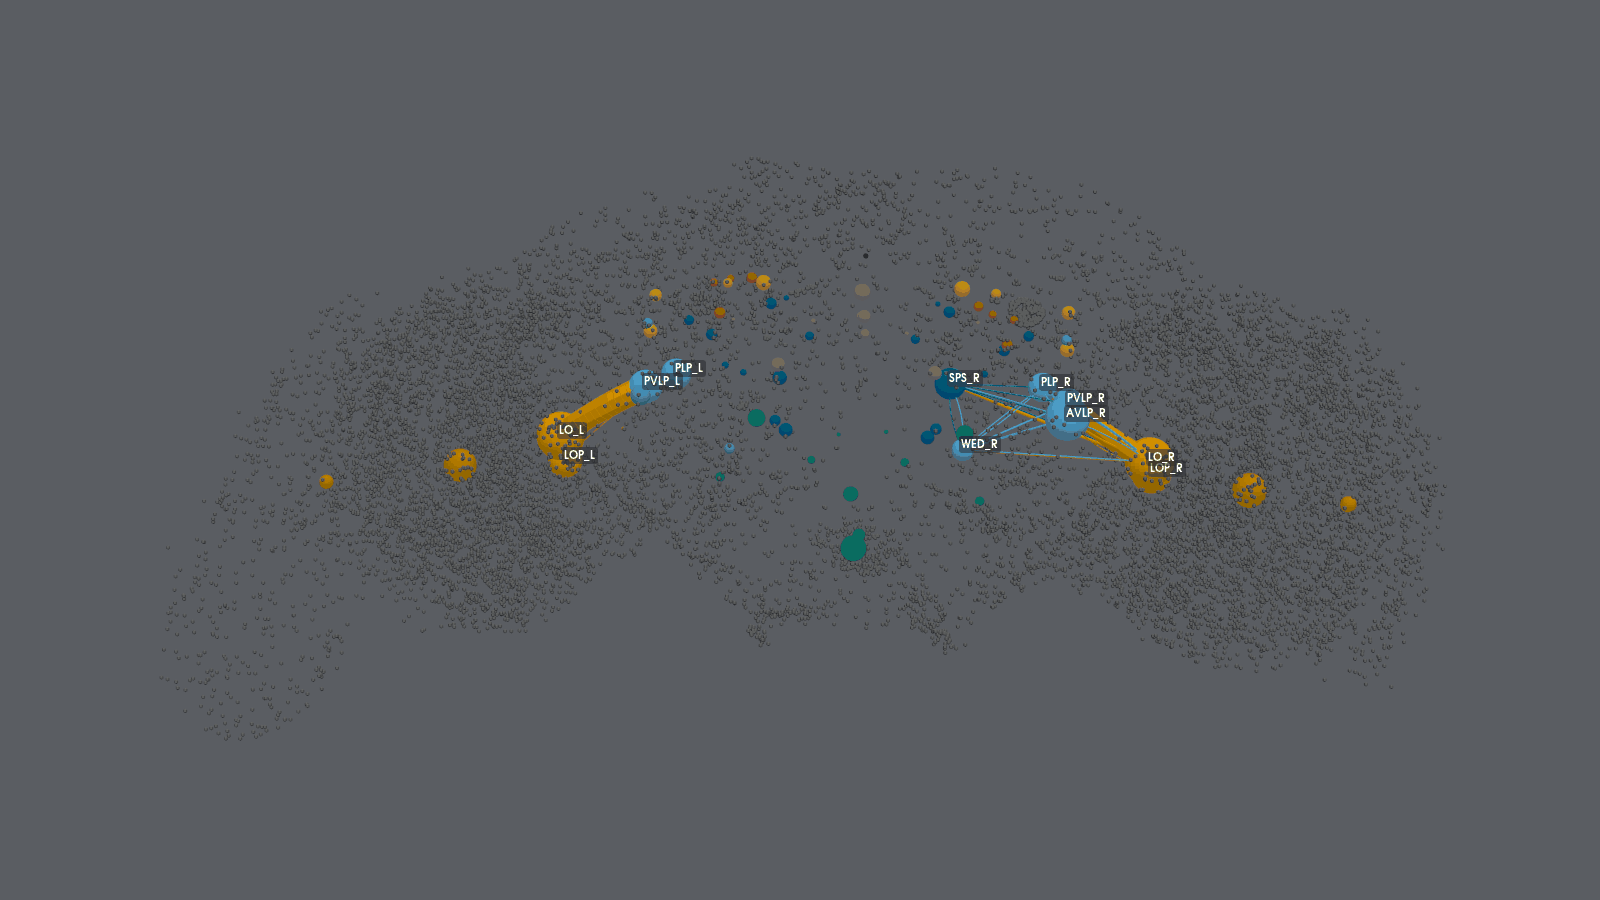
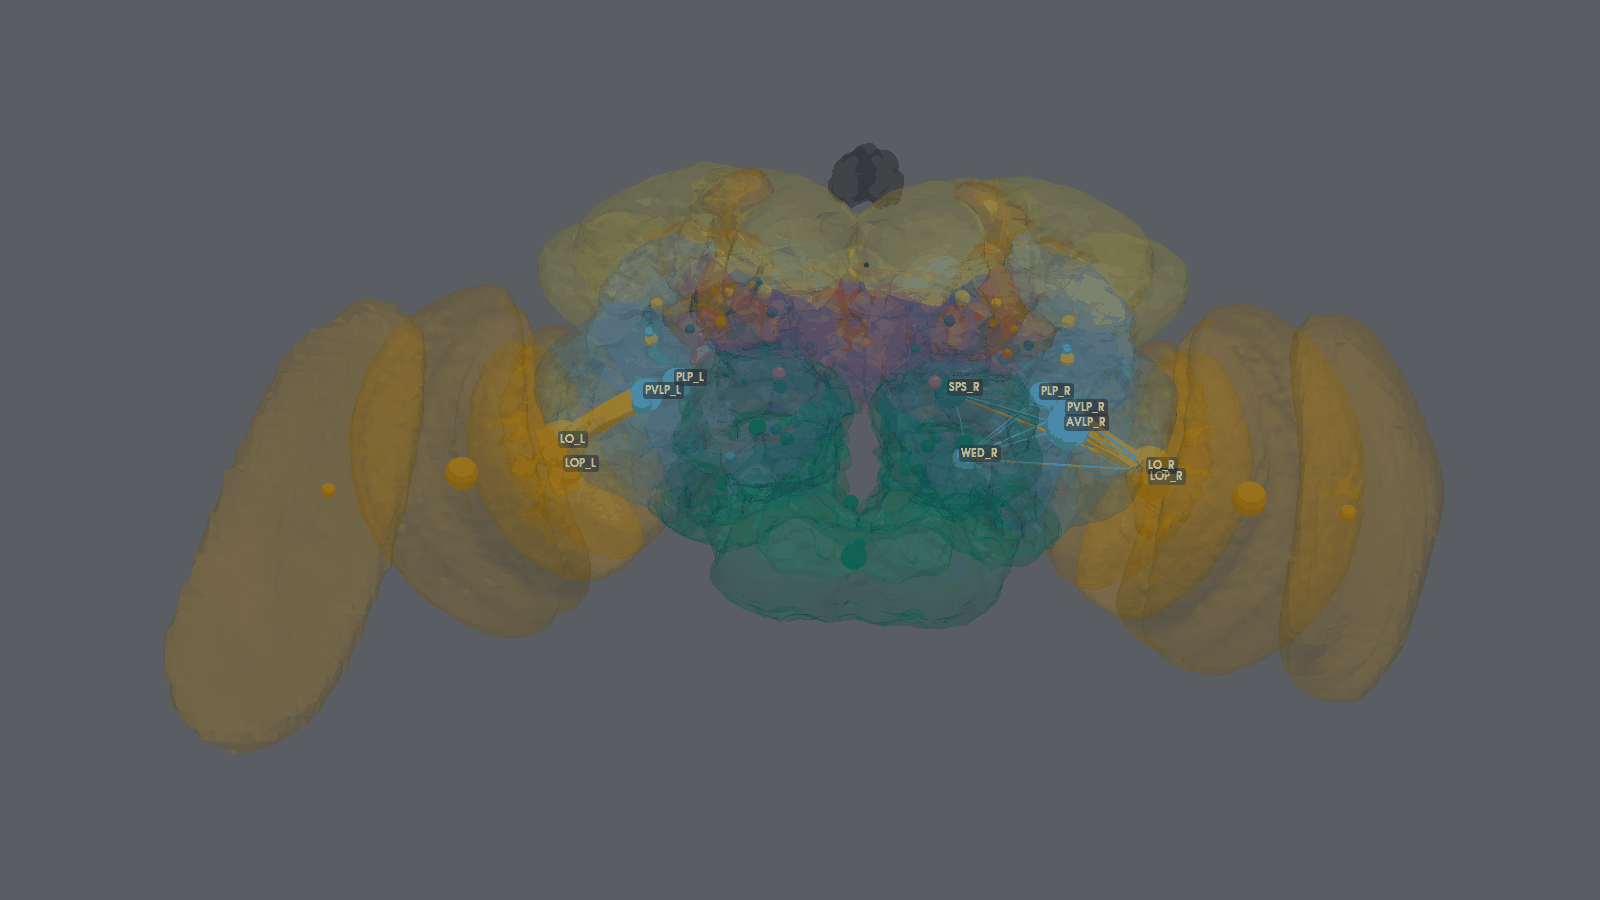
docs: show the anatomy, and fix the script that draws it
The documentation images still showed the brain as a fog of marked points
with no neuropil surfaces, two days after 0.4.0 added both. The reason was
not that nobody re-rendered them: docs/scripts/render_images.py opened
ConnectomeKG("."), which has looked for ./.connectomekg/graph.sqlite since
0.3.0 moved each dataset under connectomes/<dataset>/, so the script died on
its first line and had been dead since 2026-09-17.

With that fixed, all four existing images regenerate with the surfaces drawn
and the whole-brain cloud sitting on real somas, and a fifth joins them.
anatomy_lplc2_dnp01.png leads the README and the documentation site: the
escape circuit, LPLC2's looming detectors in pink filling the lobula of each
optic lobe, DNp01's giant fibre in blue collecting from them and leaving the
frame toward the nerve cord, inside the 78 neuropil surfaces with one dot per
neuron at its cell body. It is the release's own argument in one frame -- a
graph answer drawn in the real brain -- and one command makes it.

circuit_dnp01's caption said "inside the FAFB v783 context cloud", which
stopped being true the moment the surfaces were drawn: they turn the cloud
off, so that image now has no dots in it at all.

The README hero is an absolute raw URL because PyPI re-hosts the README and
repo-relative images do not resolve there, and it points at main rather than
at a tag. A tag-pinned hero must be bumped every release and fails silently
[…]

Changed region(s): [[0.0938, 0.1556, 0.9062, 0.84]]

diff --git a/docs/scripts/render_images.py b/docs/scripts/render_images.py
@@ -24,6 +24,7 @@ from PIL import Image
 from quiltwright import QUILT_PRESETS, render_quilt
 
 from connectomekg import ConnectomeKG
+from connectomekg.datasets import dataset_dir
 from connectomekg.scene import (
     FLOOR_ELEVATION,
     add_floor,
@@ -37,8 +38,28 @@ OUT = Path("docs/images")
 SPEC = QUILT_PRESETS["16-landscape"].still(height=900)  # 1600 x 900
 FOV = 14.0
 
+#: The dataset these images are rendered from.
+DATASET = "fafb783"
+
 #: (file stem, build_brain_scene options, floor, label neuropils)
+#:
+#: Since 0.4.0 every one of these draws the neuropil surfaces where the mesh
+#: cache exists, and the whole-brain cloud sits on real somas rather than
+#: marked points where `connkg skeletons` has back-filled them. Drawing the
+#: surfaces turns the cloud off by default, so an entry that wants both says
+#: so with `cloud=True`.
 IMAGES = [
+    (
+        "anatomy_lplc2_dnp01",
+        {
+            "specs": ["LPLC2", "DNp01"],
+            "data_dir": "fafb_v783",
+            "tubes": True,
+            "cloud": True,
+        },
+        False,
+        False,
+    ),
     ("circuit_dnp01", {"specs": ["DNp01"], "data_dir": "fafb_v783"}, False, False),
     ("flow_all", {"view": "flow", "top": 100}, False, True),
     ("flow_lc4", {"view": "flow", "specs": ["LC4"]}, False, True),
@@ -77,7 +98,9 @@ def label_active_neuropils(plotter: pv.Plotter, kg: ConnectomeKG, options: dict)
 
 def main() -> None:
     OUT.mkdir(parents=True, exist_ok=True)
-    kg = ConnectomeKG(".")
+    # Each dataset owns its own store since 0.3.0; ConnectomeKG(".") looked
+    # for ./.connectomekg/graph.sqlite and found nothing.
+    kg = ConnectomeKG(dataset_dir(".", DATASET))
     try:
         for stem, options, floor, labels in IMAGES:
             plotter = pv.Plotter(off_screen=True)

diff --git a/README.md b/README.md
@@ -10,6 +10,18 @@
 
 **ConnectomeKG turns an electron-microscopy connectome into a queryable knowledge graph: every neuron a node, every edge a counted synapse, with the cell types, neuropils and community labels layered on top.**
 
+<!-- An absolute raw URL, not a repo-relative path: PyPI re-hosts this README
+     and repo-relative images do not resolve there. Pinned to main rather than
+     to a tag on purpose. A tag-pinned hero has to be bumped every release and
+     fails silently when it is not, serving the previous release's image at
+     200 OK; and this one could not be pinned to v0.4.0 in any case, because
+     the tag was cut before the image existed. -->
+![The escape circuit, LPLC2 to DNp01, inside the brain's neuropil surfaces](https://raw.githubusercontent.com/Flux-Frontiers/connectome_kg/main/docs/images/anatomy_lplc2_dnp01.png)
+
+*The escape circuit in its anatomy. Pink is LPLC2, the looming detectors whose dendrites fill the lobula of each optic lobe; blue is DNp01, the giant fibre, which collects from them in the central brain and sends the two axons leaving the bottom of the frame down to the nerve cord. Behind them the brain's 78 neuropil surfaces, and one dot for each of the 139,255 neurons placed at its cell body. One command draws it, over the same spec grammar the path and cone queries take: `connkg quilt LPLC2 DNp01 --tubes --cloud`.*
+
+*Render of the [FlyWire](https://flywire.ai) FAFB v783 connectome ([Dorkenwald et al. 2024](https://doi.org/10.1038/s41586-024-07558-y); [Schlegel et al. 2024](https://doi.org/10.1038/s41586-024-07686-5)), [CC BY-NC-SA 4.0](https://creativecommons.org/licenses/by-nc-sa/4.0/). The image is an adaptation shared under the same licence, not under the software's Elastic License 2.0.*
+
 The first corpus is the FlyWire FAFB v783 adult *Drosophila* brain: 139,255 neurons and 3,732,460 connected neuron pairs. ConnectomeKG reads the Codex export, normalises it into dataset-neutral tables, and writes a typed graph to SQLite. Neurons are instances of cell types, cell types sit under a super class and class taxonomy and belong to hemilineages, and both neurons and types connect to the neuropils they innervate. Each synapse edge carries its count and a transmitter sign. A vector index over the small human vocabulary (cell type names, neuropils, labels, taxa) lets a query like *"sugar sensing gustatory neurons"* find the right place to start.
 
 From there you can ask wiring questions directly: the strongest signed path from a sensory neuron to a motor neuron, the downstream cone of a visual projection type, the hub neurons and strongest type-to-type connections. Because it is a `KGModule` built on [kgmodule-utils](https://github.com/Flux-Frontiers/KG_utils), the same graph also federates with the rest of the KGRAG fleet.

diff --git a/docs/rendering.md b/docs/rendering.md
@@ -16,10 +16,23 @@ Both views draw the whole brain as a context cloud behind the subject, and,
 once fetched with `connkg meshes`, the brain's neuropils as faint surfaces.
 Both render either as a Looking Glass quilt or in an interactive viewer.
 
-![The two DNp01 descending neurons inside the whole-brain context cloud](images/circuit_dnp01.png)
+![The escape circuit, LPLC2 to DNp01, inside the brain's neuropil surfaces](images/anatomy_lplc2_dnp01.png)
 
-*Circuit view: the two DNp01 giant fiber neurons, drawn from their traced
-skeletons, inside the FAFB v783 context cloud. See
+*The escape circuit in its anatomy. Pink is LPLC2, the looming detectors,
+whose dendrites fill the lobula of each optic lobe; blue is DNp01, the giant
+fibre, which collects from them in the central brain and sends the two axons
+leaving the bottom of the frame down to the nerve cord. Behind them the 78
+neuropil surfaces, and one dot for each of the 139,255 neurons, placed at its
+cell body. Both populations come from a spec the query layer understands:
+`connkg quilt LPLC2 DNp01 --tubes --cloud`. See
+[Reading the images](#reading-the-images).*
+
+![The two DNp01 descending neurons inside the brain's neuropil surfaces](images/circuit_dnp01.png)
+
+*Circuit view: the two DNp01 giant fibre neurons, drawn from their traced
+skeletons, inside the FAFB v783 neuropil surfaces. Drawing the surfaces turns
+the whole-brain cloud off, which is why there are no dots here and the optic
+lobes read as layered shells. See
 [Reading the images](#reading-the-images).*
 
 ![Neuropil flow across the whole brain, strongest 100 pairs](images/flow_all.png)

diff --git a/docs/index.md b/docs/index.md
@@ -11,10 +11,24 @@ taxonomy, hemilineages and community labels sit on top. The first corpus is
 the FlyWire FAFB v783 adult *Drosophila* brain: 139,255 neurons and 3,732,460
 connected neuron pairs.
 
+![The escape circuit, LPLC2 to DNp01, inside the brain's neuropil surfaces](images/anatomy_lplc2_dnp01.png)
+
+*The escape circuit in its anatomy. Pink is LPLC2, the looming detectors
+filling the lobula of each optic lobe; blue is DNp01, the giant fibre, which
+collects from them and sends the two axons leaving the bottom of the frame
+down to the nerve cord. Behind them the brain's 78 neuropil surfaces, and one
+dot per neuron at its cell body. The whole picture comes from one command,
+`connkg quilt LPLC2 DNp01 --tubes --cloud`, over the same spec grammar the
+path and cone queries take.*
+
 ![Neuropil flow across the FAFB v783 brain](images/flow_all.png)
 
+*Signal flow between neuropils, summed over the neurons that carry it: the
+strongest 100 of 5,786 directed pairs, each neuropil a sphere at the
+synapse-weighted centroid of its neurons and tinted by brain region.*
+
 !!! note "Data credit and licence"
-    The image above is a render of the
+    The images above are renders of the
     [FlyWire](https://flywire.ai) FAFB v783 connectome: Dorkenwald, S. et al.
     (2024), *Nature* 634, 124-138, and Schlegel, P. et al. (2024), *Nature*
     634, 139-152. The data is licensed under

diff --git a/CHANGELOG.md b/CHANGELOG.md
@@ -7,6 +7,23 @@ and this project adheres to [Semantic Versioning](https://semver.org/spec/v2.0.0
 
 ## [Unreleased]
 
+### Fixed
+
+- **`docs/scripts/render_images.py` runs again.** It opened `ConnectomeKG(".")`,
+  which has looked for `./.connectomekg/graph.sqlite` since 0.3.0 moved each
+  dataset into `connectomes/<dataset>/`, so it failed on its first line and
+  nothing had regenerated the documentation images since 2026-09-17. They
+  therefore still showed the whole-brain cloud of marked points with no
+  neuropil surfaces, two days after 0.4.0 added both.
+
+### Added
+
+- **A hero render, `docs/images/anatomy_lplc2_dnp01.png`**, on the README and
+  the documentation site: the escape circuit, LPLC2 to DNp01, drawn inside the
+  brain's neuropil surfaces with one dot per neuron at its cell body. The four
+  existing images were regenerated and now show the surfaces and the somas too.
+
+
 ## [0.4.0] - 2026-09-19
 
 ### Added
